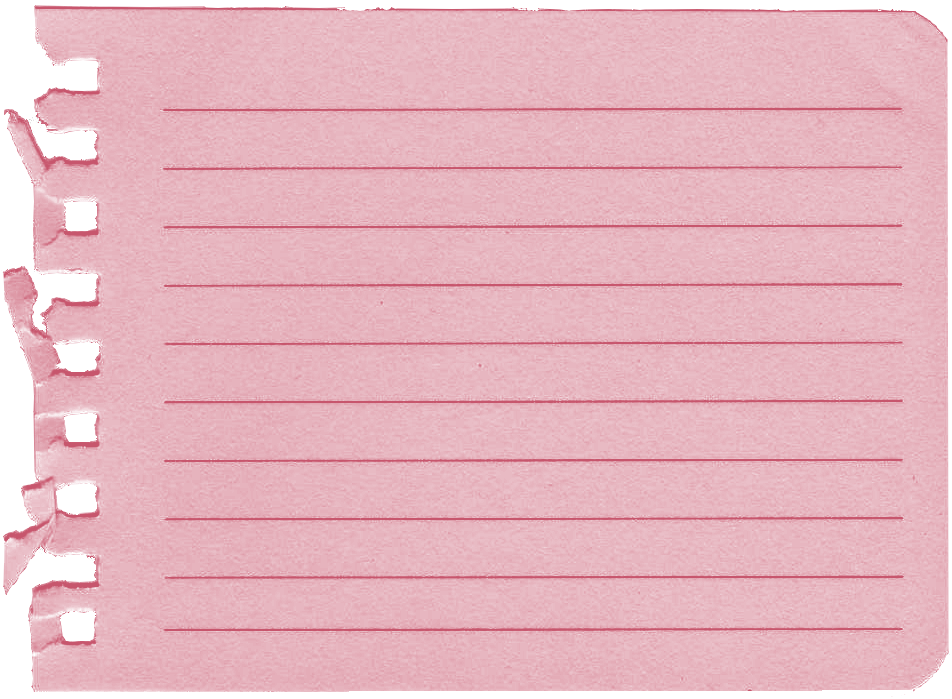
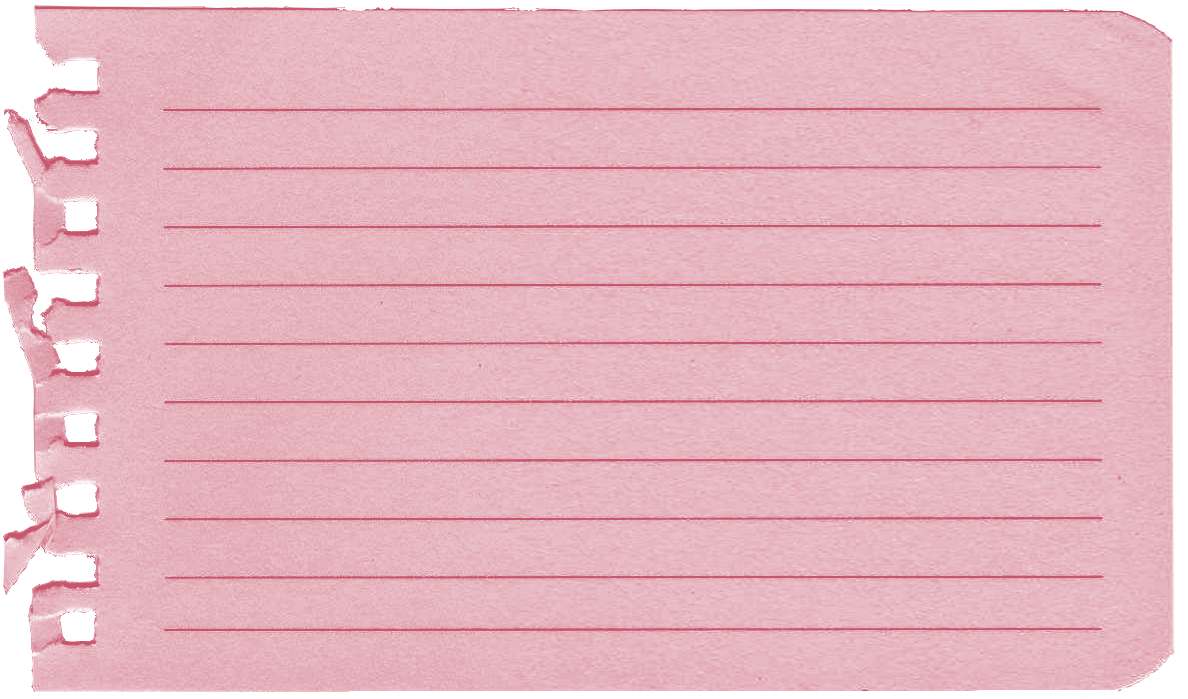
Added the second notepad section. Still unsure of what goes in these exactly.

diff --git a/stylesheet.css b/stylesheet.css
@@ -128,6 +128,7 @@ body {
     display: grid;
     gap: 1em;
     grid-template-rows: 1fr 1fr;
+    grid-template-columns: 1fr 1fr;
     grid-template-areas:
         /*dBox1 is mainLeftTop dBox3 is pplDrawing and dBox2 is ___*/
         "dBox1 dBox1"
@@ -136,8 +137,7 @@ body {
 }
 
 /* #region TOP LEFT SECTION */
-.mainLeftTop {
-    /* PARENT */
+.mainLeftTop {    /* PARENT */
     /* BACKROUND  */
     /* background-color: rgb(246, 40, 81); */
     background-image: url(css/assets/rippedPaperLong.png);
@@ -181,17 +181,54 @@ body {
 
 .drawingBoxR {
     /*CURRENTLY FILLER*/
-    background-color: rgb(244, 67, 149);
+    /* background-color: rgb(244, 67, 149); */
+    background-image: url(css/assets/rippedPaperShort.png);
+    background-size: contain;
+    background-repeat: no-repeat;
+    background-position: center;
+    /* GRID  */
+    overflow: hidden;
+    display: grid;
+    justify-items: center;
+    align-items: center;
+    padding-bottom: 2%;
+    padding-top: 2%;
+    padding-left: 5%;
+}
+
+.drawingboxR_desc {
+    /* CHILD */
+    /* TEXT  */
+    color: #982d46;
+    text-shadow: -2px -2px 0 #f5b6c3, 2px -2px 0 #f5b6c3, -2px 2px 0 #f5b6c3, 2px 2px 0 #f5b6c3;
+    /* TEXT BORDER */
+
+    max-height: 75%;
+    max-width: 75%;
+    margin: 0;
+    border-radius: 2vh;
+    padding: 2%;
+    /* background-color: rgb(218, 109, 131, 50%); */
+
+    overflow: scroll;
+    overflow-x: hidden;
+    -ms-overflow-style: none;
+    /* IE and Edge */
+    scrollbar-width: none;
+    /* Firefox */
+
 }
 
 
-.pplDrawingBox {
-    /* GRAPHIC IN BOTTOM LEFT */
+.pplDrawingBox { /* GRAPHIC IN BOTTOM LEFT */
+    
     /* background-color: purple; */
     background-image: url(css/assets/speechpeople.png);
     background-size: contain;
     background-repeat: no-repeat;
     background-position: bottom;
+
+    min-width: 30vh;
 }
 
 

diff --git a/index.html b/index.html
@@ -34,11 +34,16 @@
     <div class="mainLeftSection" style="grid-area: box1;">
       <div class="mainLeftTop" style="grid-area: dBox1">
         <div class="topDescription">
-          Lorem, ipsum dolor sit amet consectetur adipisicing elit. Quos atque adipisci nihil. Quam quidem quisquam labore facere quia consequatur nesciunt officia ducimus culpa! Reprehenderit asperiores voluptatum enim officiis, voluptates sequi! Lorem ipsum dolor sit amet consectetur adipisicing elit. Perspiciatis aliquid id repellendus accusamus sint aperiam vero voluptatem debitis velit. Quod sed atque, eos impedit officia molestias accusantium sunt ipsum id. 
+          This website is under construction!
         </div>
 
       </div>
-      <div class="drawingBoxR" style="grid-area: dBox2"></div>
+      <div class="drawingBoxR" style="grid-area: dBox2">
+        <div class="drawingboxR_desc"> <!-- change name -->
+          Lorem ipsum dolor sit amet consectetur, adipisicing elit. Assumenda architecto magnam ea hic fugit, aut sequi neque maiores deleniti ab, ad distinctio perspiciatis beatae laboriosam expedita illo excepturi tempore saepe! Lorem ipsum dolor sit amet consectetur adipisicing elit. Neque molestiae ipsam, optio veniam consequatur maiores consectetur! Nisi ad dignissimos quisquam eaque in nulla, asperiores, sit facere maiores iusto doloremque consequatur.
+
+        </div>
+      </div>
       <div class="pplDrawingBox" style="grid-area: dBox3"></div>
     </div>
 
@@ -82,7 +87,7 @@
 </div>
 
 <div class="bottomnav">
-    <div class="ekezduLink">Website created by <a href="ekezdu.art">ekezdu</a> ||</div>
+    <div class="ekezduLink">Website created by <a href="https://ekezdu.art">ekezdu</a> ||</div>
     <div class="translatorLink">Would you rather hire me as a translator? <a href="">Click here!</a> 
     </div>
 </div>
